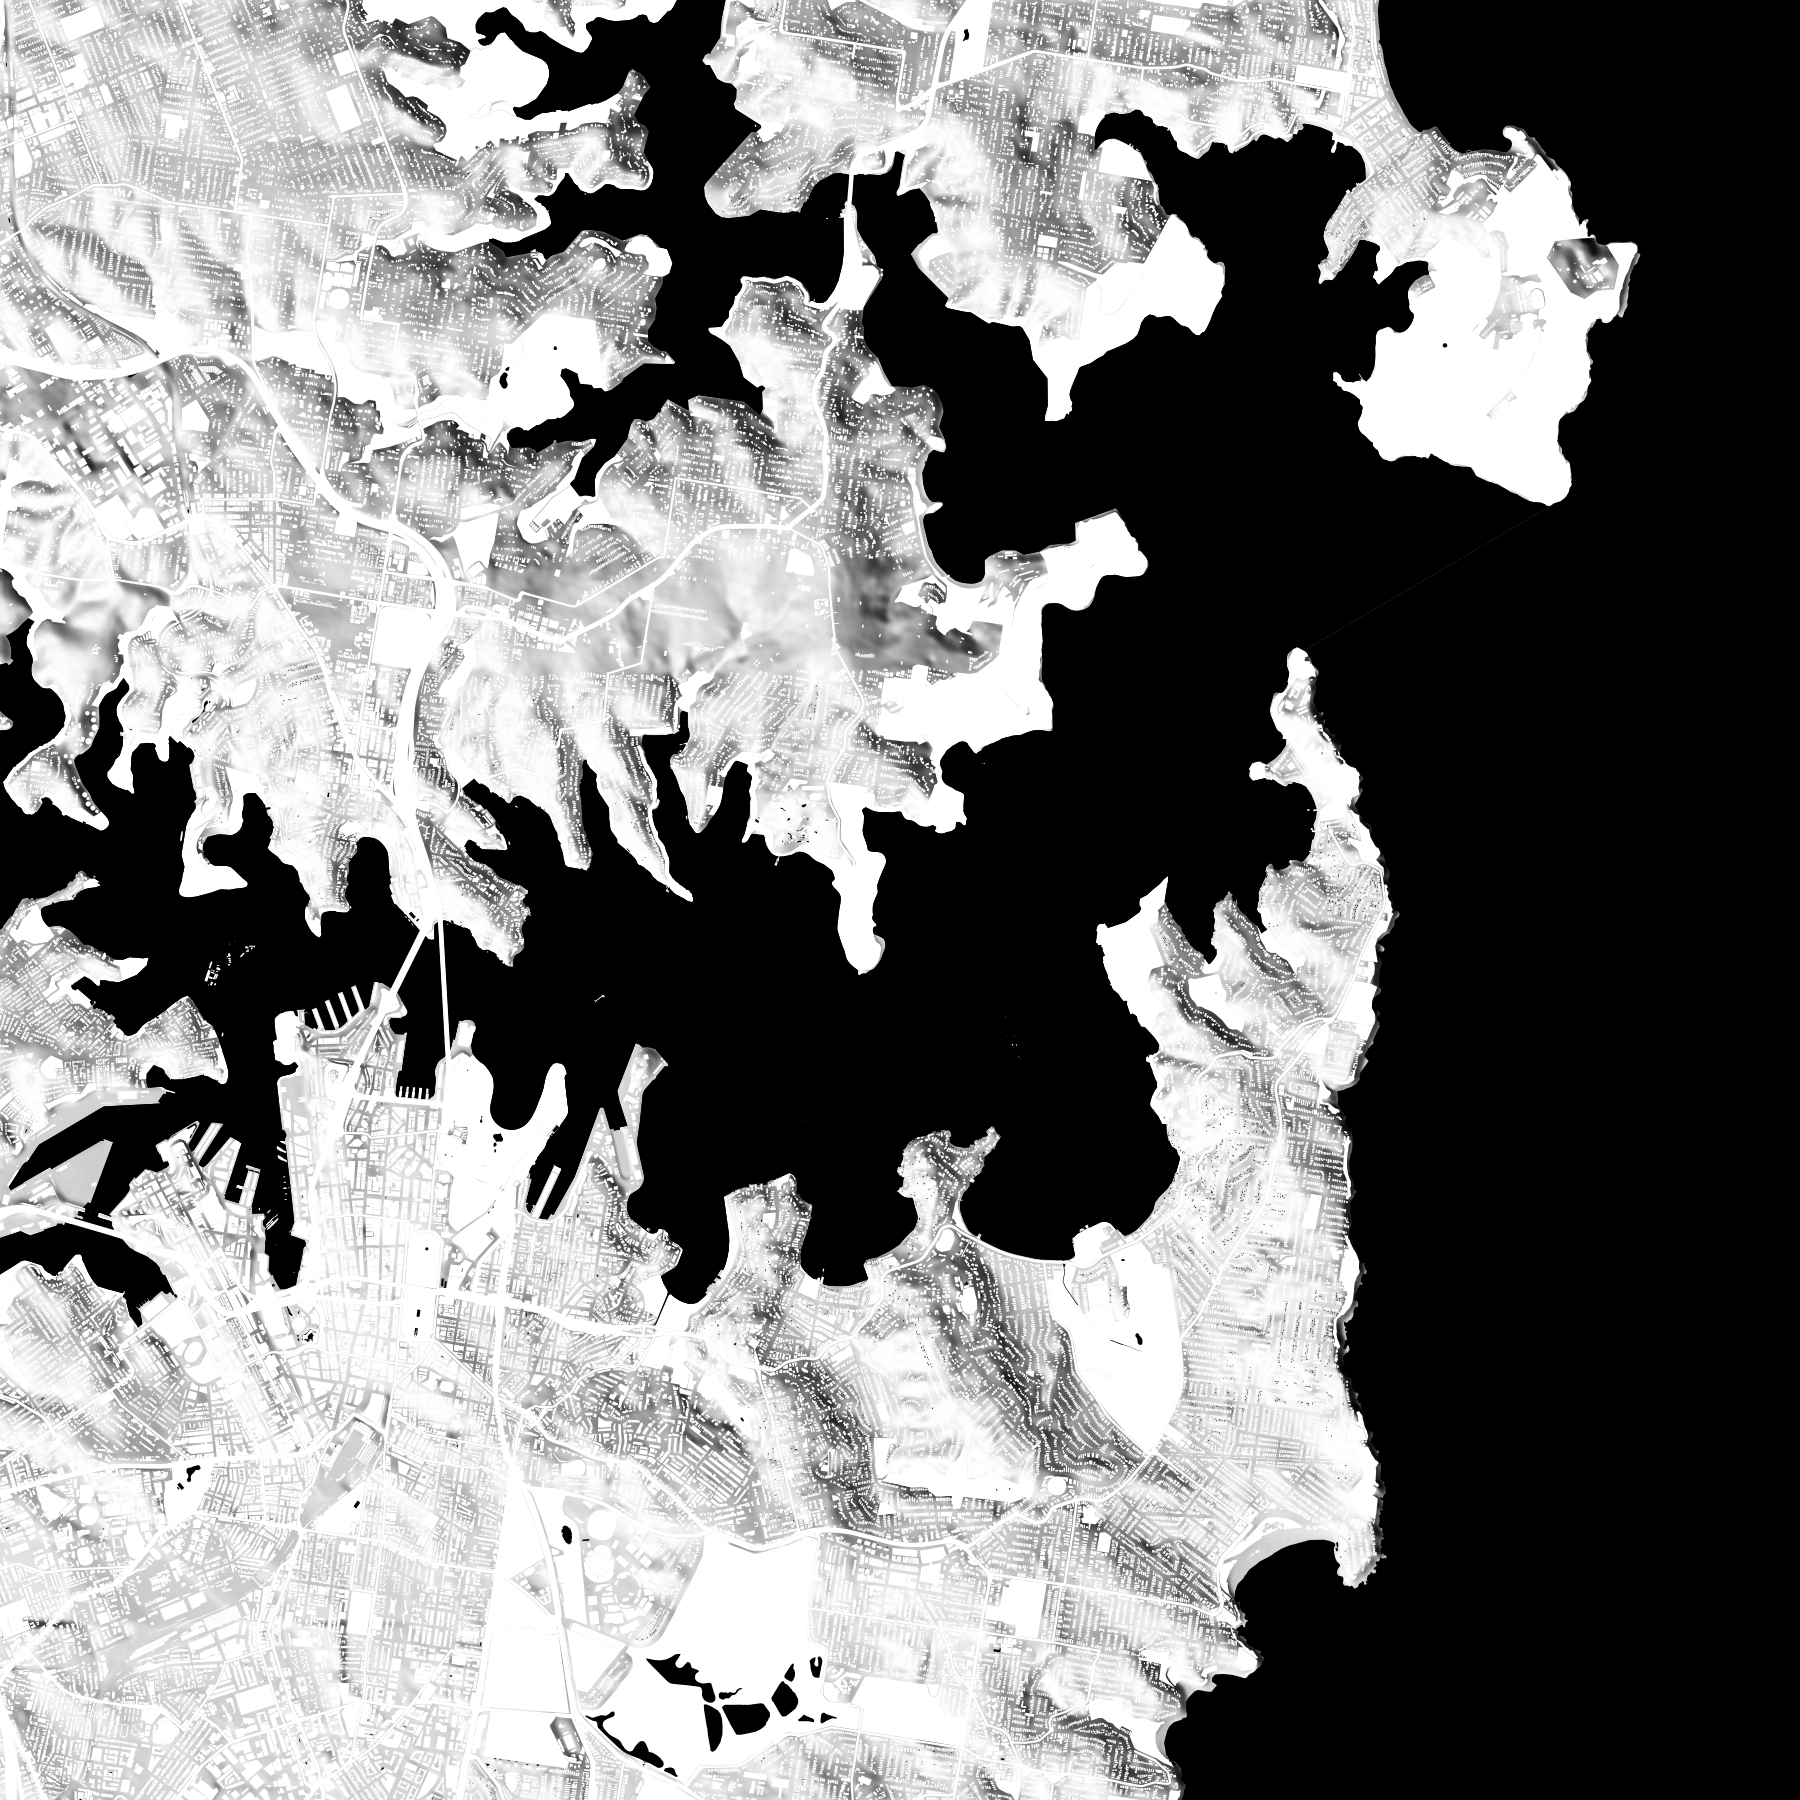
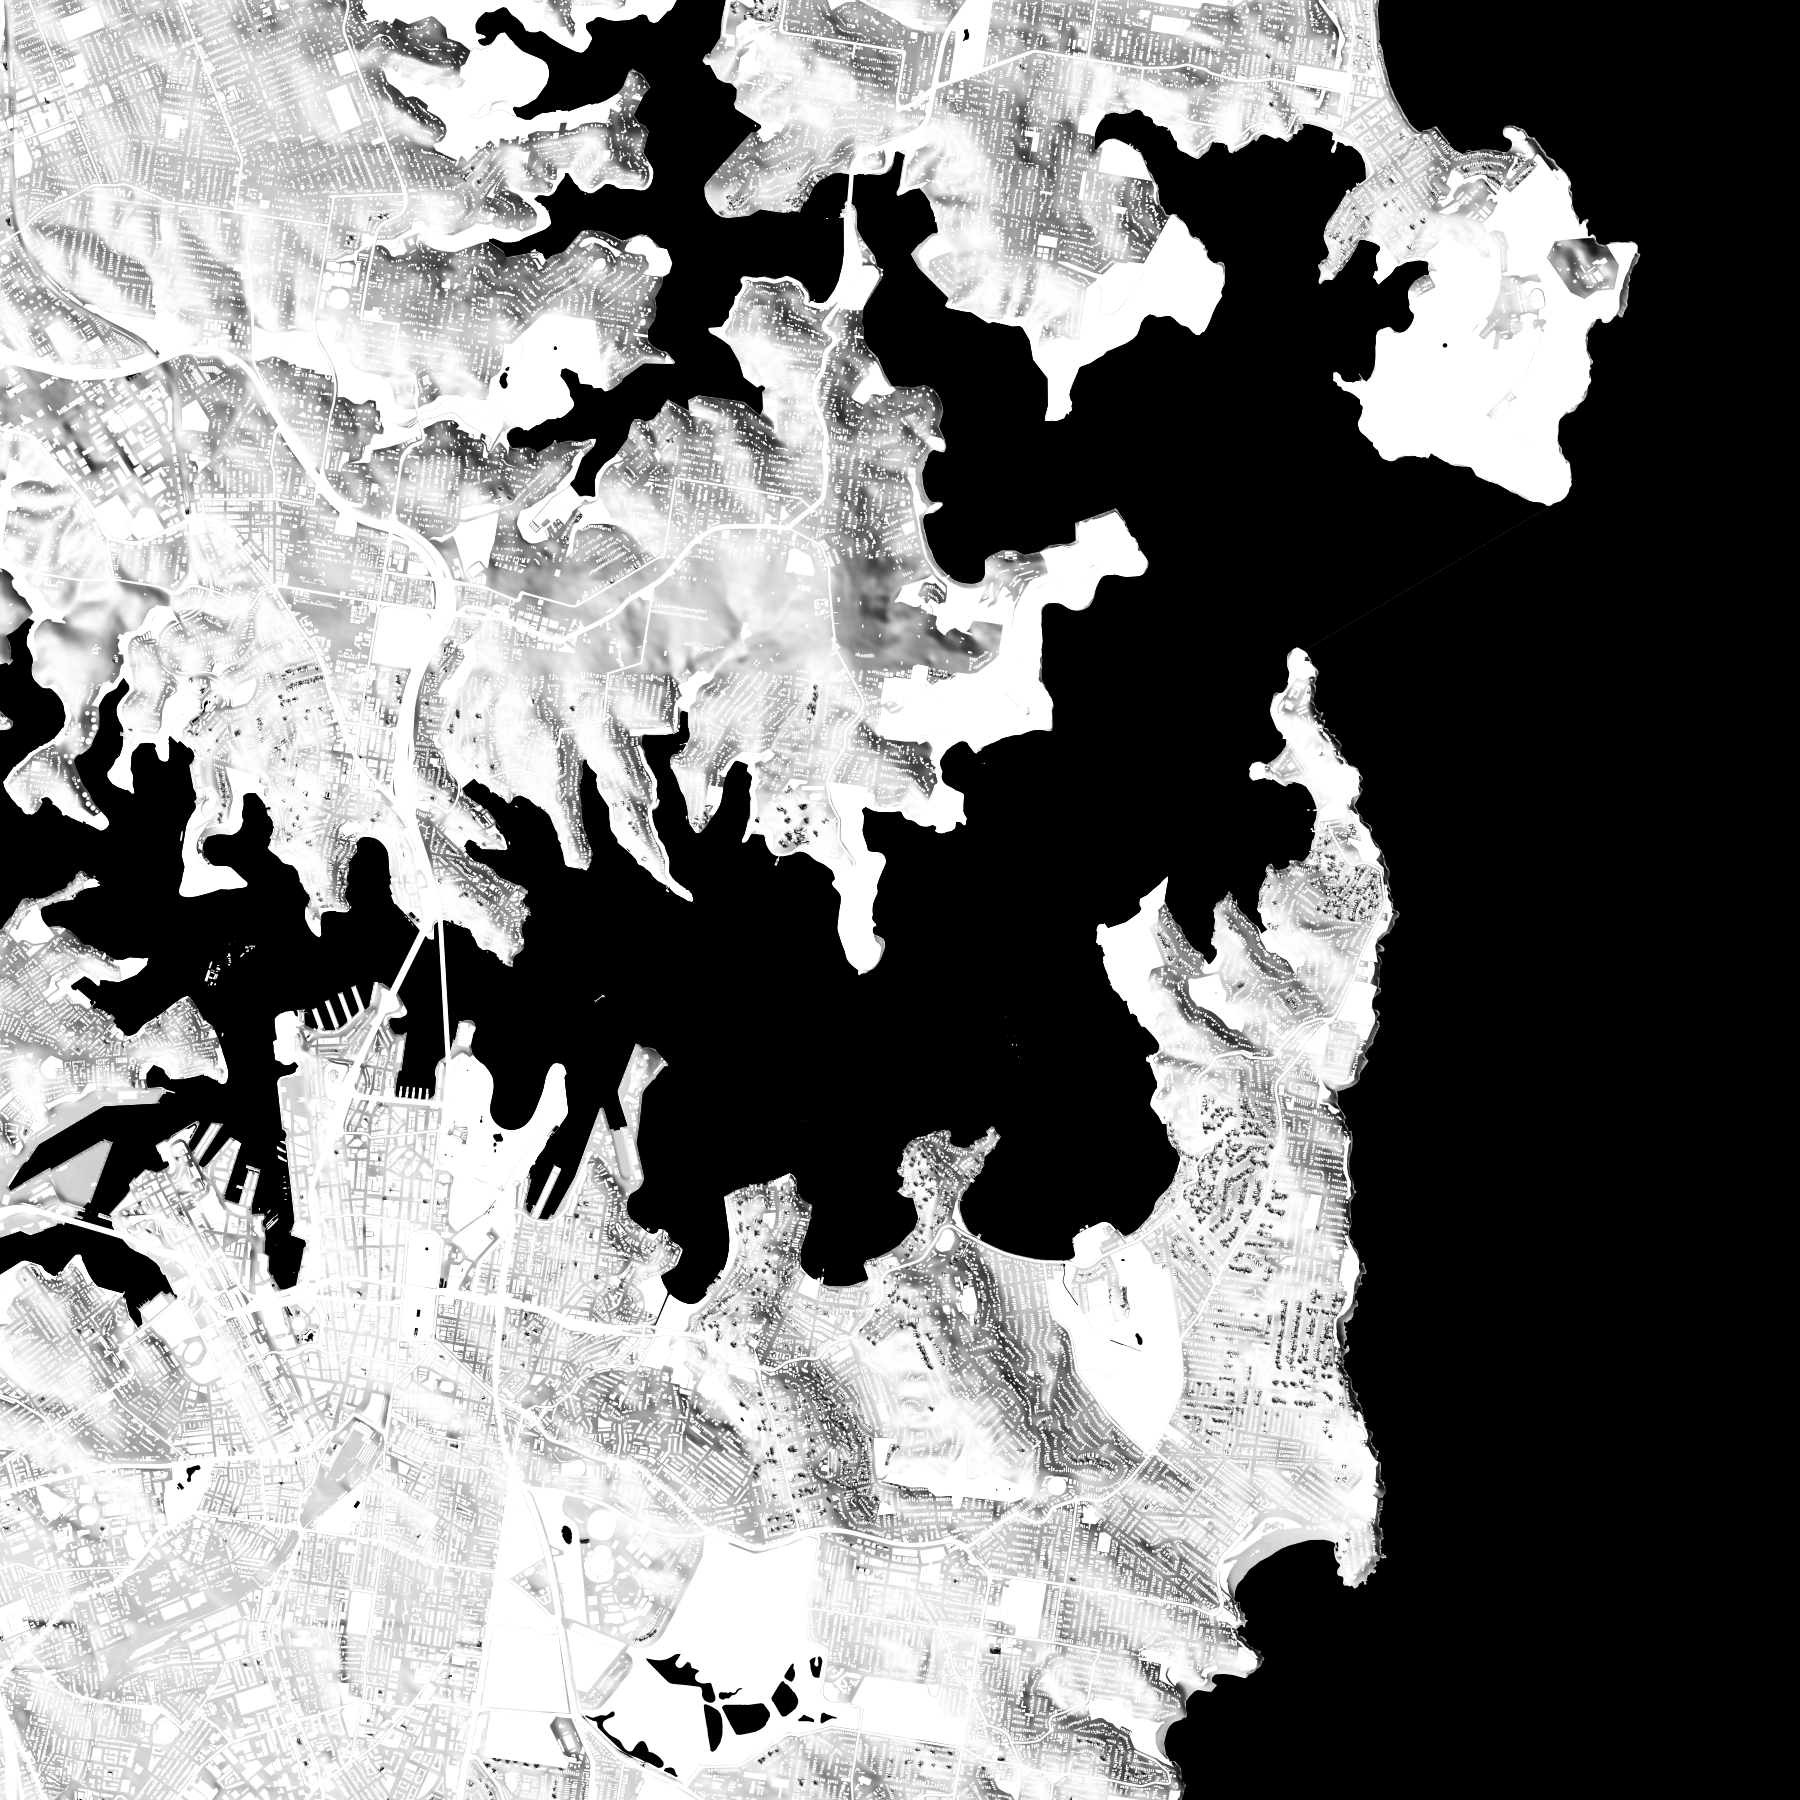
Water currents/waves on a uniform flat-bottomed layer; HTML viewer; fixes
- mesh: water gets a sum-of-sines wave/current top (triangulated with interior
  vertices) over a flat uniform bottom -> uniform layer height with gentle relief
- build: carve a flat seabed under water so white land can't poke through the sea
- make_viewer.py: self-contained Three.js HTML viewer (embedded GLB, decimated
  terrain, double-sided materials to avoid back-face show-through); omits the
  flat white street/tree layers to keep the file small
- config: water.waves block; env: triangle, fast-simplification, lib3mf
- verified the viewer renders solid-black water in a headless browser

diff --git a/make_viewer.py b/make_viewer.py
@@ -1,0 +1,178 @@
+#!/usr/bin/env python3
+"""Build a self-contained interactive 3D HTML viewer from a generated .3mf.
+
+    python make_viewer.py [output/bondi_r0c0.3mf] [config.json]
+
+Loads the meshes, decimates the (smooth) terrain so the file stays reasonable,
+exports a binary GLB, and embeds it as base64 in a single HTML file with a
+Three.js orbit viewer. Colours are assigned per object name in the browser, so
+the viewer always matches the `colors` block in config.json. Self-contained:
+double-click the .html (Three.js loads from a CDN; the model is embedded, so no
+local-file fetch is needed).
+"""
+
+import base64
+import json
+import sys
+from pathlib import Path
+
+import trimesh
+
+TERRAIN_TARGET_FACES = 300_000
+# Flat ground-cover layers that are invisible in the default white-on-white
+# scheme; omitted from the viewer to shrink the file. They remain in the .3mf.
+SKIP_LAYERS = {"streets", "trees"}
+
+
+def _decimate(mesh, target):
+    if len(mesh.faces) <= target:
+        return mesh
+    try:
+        return mesh.simplify_quadric_decimation(face_count=target)
+    except Exception as exc:
+        print(f"  (decimation unavailable: {exc}; keeping full terrain)")
+        return mesh
+
+
+def main():
+    src = Path(sys.argv[1]) if len(sys.argv) > 1 else Path("output/bondi_r0c0.3mf")
+    cfg_path = Path(sys.argv[2]) if len(sys.argv) > 2 else Path("config.json")
+    colors = {k: v for k, v in json.loads(cfg_path.read_text())["colors"].items()
+              if not k.startswith("_")}
+
+    print(f"Loading {src} ...")
+    scene = trimesh.load(src, process=False)
+    geoms = {}
+    for name, m in scene.geometry.items():
+        key = name.lower()
+        if any(s in key for s in SKIP_LAYERS):
+            print(f"  skip {name} ({len(m.faces):,} faces, invisible in viewer)")
+            continue
+        if "terrain" in key and len(m.faces) > TERRAIN_TARGET_FACES:
+            n0 = len(m.faces)
+            m = _decimate(m, TERRAIN_TARGET_FACES)
+            print(f"  terrain {n0:,} -> {len(m.faces):,} faces")
+        geoms[name] = m
+
+    glb = trimesh.Scene(geoms).export(file_type="glb")
+    print(f"GLB: {len(glb)/1e6:.1f} MB")
+
+    html = _TEMPLATE
+    html = html.replace("__TITLE__", src.stem)
+    html = html.replace("__COLORS__", json.dumps(colors))
+    html = html.replace("__GLB_B64__", base64.b64encode(glb).decode())
+    out = src.with_suffix(".html")
+    out.write_text(html)
+    print(f"wrote {out}  ({len(html)/1e6:.1f} MB)")
+
+
+_TEMPLATE = r"""<!DOCTYPE html>
+<html lang="en">
+<head>
+<meta charset="utf-8"/>
+<meta name="viewport" content="width=device-width, initial-scale=1"/>
+<title>__TITLE__ - 3D map</title>
+<style>
+  html,body{margin:0;height:100%;background:#3a3a3a;overflow:hidden;font-family:system-ui,sans-serif}
+  #c{display:block;width:100%;height:100%}
+  #hud{position:fixed;left:14px;bottom:12px;color:#eee;font-size:12px;opacity:.7;
+       text-shadow:0 1px 2px #000;pointer-events:none}
+  #spin{position:fixed;right:14px;top:12px;color:#eee;font-size:12px;background:#0006;
+        border:1px solid #fff3;border-radius:6px;padding:6px 10px;cursor:pointer}
+  #load{position:fixed;inset:0;display:flex;align-items:center;justify-content:center;
+        color:#ddd;font-size:15px;background:#3a3a3a}
+</style>
+</head>
+<body>
+<canvas id="c"></canvas>
+<div id="load">Loading model...</div>
+<div id="spin">auto-rotate: on</div>
+<div id="hud">drag to orbit &middot; scroll to zoom &middot; right-drag to pan</div>
+<script type="importmap">
+{ "imports": {
+  "three": "https://unpkg.com/three@0.160.0/build/three.module.js",
+  "three/addons/": "https://unpkg.com/three@0.160.0/examples/jsm/"
+}}
+</script>
+<script type="module">
+import * as THREE from 'three';
+import { OrbitControls } from 'three/addons/controls/OrbitControls.js';
+import { GLTFLoader } from 'three/addons/loaders/GLTFLoader.js';
+
+const COLORS = __COLORS__;
+const GLB_B64 = "__GLB_B64__";
+
+const renderer = new THREE.WebGLRenderer({canvas: document.getElementById('c'), antialias:true});
+renderer.setPixelRatio(Math.min(devicePixelRatio, 2));
+renderer.setSize(innerWidth, innerHeight);
+
+const scene = new THREE.Scene();
+scene.background = new THREE.Color(0x3a3a3a);
+
+const camera = new THREE.PerspectiveCamera(45, innerWidth/innerHeight, 0.1, 100000);
+const controls = new OrbitControls(camera, renderer.domElement);
+controls.enableDamping = true;
+controls.autoRotate = true;
+controls.autoRotateSpeed = 0.6;
+
+scene.add(new THREE.HemisphereLight(0xffffff, 0x444444, 0.55));
+const key = new THREE.DirectionalLight(0xffffff, 2.4);
+key.position.set(-1, 1.4, 0.8);              // NW, high: classic hillshade angle
+scene.add(key);
+const fill = new THREE.DirectionalLight(0xffffff, 0.5);
+fill.position.set(1, 0.6, -0.8);
+scene.add(fill);
+
+function colorFor(name){
+  name = (name||'').toLowerCase();
+  for (const k in COLORS) if (name.includes(k)) return new THREE.Color(COLORS[k]);
+  return new THREE.Color(0xcccccc);
+}
+
+const buf = Uint8Array.from(atob(GLB_B64), c => c.charCodeAt(0));
+new GLTFLoader().parse(buf.buffer, '', (gltf) => {
+  const model = gltf.scene;
+  model.traverse(o => {
+    if (!o.isMesh) return;
+    o.geometry.computeVertexNormals();
+    o.material = new THREE.MeshStandardMaterial({
+      color: colorFor(o.name), roughness: 0.9, metalness: 0.0,
+      side: THREE.DoubleSide,   // meshes aren't consistently wound; don't cull
+      flatShading: o.name.toLowerCase().includes('terrain')
+    });
+  });
+  model.rotation.x = -Math.PI/2;             // model is Z-up; Three.js is Y-up
+  model.updateMatrixWorld(true);
+
+  const box = new THREE.Box3().setFromObject(model);
+  const center = box.getCenter(new THREE.Vector3());
+  const size = box.getSize(new THREE.Vector3());
+  model.position.sub(center);                // recenter at origin
+  scene.add(model);
+
+  const span = Math.max(size.x, size.z);
+  camera.position.set(span*0.05, span*0.75, span*0.95);
+  camera.near = span/1000; camera.far = span*20; camera.updateProjectionMatrix();
+  controls.target.set(0,0,0); controls.update();
+  document.getElementById('load').remove();
+}, (err) => {
+  document.getElementById('load').textContent = 'Failed to load model: ' + err;
+});
+
+const spin = document.getElementById('spin');
+spin.onclick = () => { controls.autoRotate = !controls.autoRotate;
+  spin.textContent = 'auto-rotate: ' + (controls.autoRotate ? 'on' : 'off'); };
+
+addEventListener('resize', () => {
+  camera.aspect = innerWidth/innerHeight; camera.updateProjectionMatrix();
+  renderer.setSize(innerWidth, innerHeight);
+});
+(function loop(){ requestAnimationFrame(loop); controls.update(); renderer.render(scene, camera); })();
+</script>
+</body>
+</html>
+"""
+
+
+if __name__ == "__main__":
+    main()

diff --git a/bondimap/mesh.py b/bondimap/mesh.py
@@ -8,6 +8,8 @@ trimesh, and each trimesh becomes one coloured object in the .3mf.
 
 from __future__ import annotations
 
+import math
+
 import mapbox_earcut as earcut
 import numpy as np
 import trimesh
@@ -199,13 +201,76 @@ def _drape(poly, sampler, offset, thickness, flat_z=None):
     return _prism(poly, z_bottom=z_bot, z_top=z_top)
 
 
+# Superimposed sine waves -> a calm sea with swells and a cross-current.
+# (wavelength_mm, relative_amplitude, direction_rad, phase)
+_WAVE_COMPONENTS = [
+    (175.0, 1.00, math.radians(25),  0.0),   # long swell / main current
+    (135.0, 0.70, math.radians(50),  1.7),   # second current direction
+    (95.0,  0.60, math.radians(115), 2.1),
+    (60.0,  0.50, math.radians(70),  1.3),
+    (38.0,  0.35, math.radians(20),  0.7),
+    (24.0,  0.22, math.radians(160), 3.0),   # short chop
+]
+
+
+def _waved_slab(poly, z_bottom, wave_fn, max_area):
+    """Slab with a flat bottom and a wave-modulated top over a polygon.
+
+    Triangulated with the `triangle` engine so the surface carries interior
+    vertices (earcut only meshes the outline, which can't show waves).
+    """
+    if poly.is_empty or poly.area <= 0 or poly.geom_type != "Polygon":
+        return None
+    try:
+        v2d, faces = trimesh.creation.triangulate_polygon(
+            poly, triangle_args=f"pa{max_area:.3f}", engine="triangle")
+    except Exception:
+        return None
+    if faces is None or len(faces) == 0:
+        return None
+    faces = np.asarray(faces, dtype=np.int64)
+    n = len(v2d)
+    verts = np.vstack([np.column_stack([v2d, wave_fn(v2d)]),
+                       np.column_stack([v2d, np.full(n, z_bottom)])])
+    out = [faces, faces[:, ::-1] + n]                  # top up, bottom reversed
+    edges = np.sort(faces[:, [0, 1, 1, 2, 2, 0]].reshape(-1, 2), axis=1)
+    uniq, cnt = np.unique(edges, axis=0, return_counts=True)
+    a, b = uniq[cnt == 1].T                             # boundary edges -> walls
+    out.append(np.column_stack([a, b, b + n]))
+    out.append(np.column_stack([a, b + n, a + n]))
+    return verts, np.vstack(out)
+
+
 def water_tile(cfg, sampler, polys, color):
-    # `level_mm` is the absolute model-z of the (flat) water surface, e.g. 2.4 mm
-    # sits 0.4 mm above a 2.0 mm datum base so the sea reads as calm and proud.
+    """Uniform flat-bottomed black water layer, optionally with a wave top.
+
+    The bottom is always one flat plane at `level - thickness` (uniform layer
+    height); only the top is modulated, so even with waves the water reads as a
+    single calm sheet rather than varying in height per body.
+    """
     wcfg = cfg["features"]["water"]
     level = float(wcfg["level_mm"])
     thick = float(wcfg["thickness_mm"])
-    pieces = [_drape(p, sampler, 0.0, thick, flat_z=level) for p in polys]
+    waves = wcfg.get("waves", {})
+
+    if not waves.get("enabled"):
+        pieces = [_drape(p, sampler, 0.0, thick, flat_z=level) for p in polys]
+        return _combine(pieces, color)
+
+    amp = float(waves["amplitude_mm"])
+    max_area = float(waves.get("mesh_max_area_mm2", 4.0))
+    norm = amp / sum(a for _, a, _, _ in _WAVE_COMPONENTS)
+
+    def wave_fn(v2d):
+        h = np.zeros(len(v2d))
+        for wl, a, ang, ph in _WAVE_COMPONENTS:
+            k = 2.0 * math.pi / wl
+            h += a * np.sin(k * (v2d[:, 0] * math.cos(ang)
+                                 + v2d[:, 1] * math.sin(ang)) + ph)
+        return level + h * norm
+
+    z_bottom = level - thick
+    pieces = [_waved_slab(p, z_bottom, wave_fn, max_area) for p in polys]
     return _combine(pieces, color)
 
 

diff --git a/bondimap/build.py b/bondimap/build.py
@@ -5,6 +5,7 @@ from __future__ import annotations
 import time
 from pathlib import Path
 
+import numpy as np
 from shapely import STRtree
 from shapely.geometry import box
 
@@ -33,6 +34,33 @@ def _poly_parts(g):
     return []
 
 
+def _carve_seabed(z_mm, water_polys, size, seabed_z):
+    """Lower terrain to a flat seabed wherever there is water (model mm).
+
+    Rasterises the water polygons onto the height grid and clamps those cells
+    down to the base level, so white land can't poke up through the black sea
+    near coastlines and the water slab rests on a clean flat bottom.
+    """
+    if not water_polys:
+        return z_mm
+    from PIL import Image, ImageDraw
+
+    n = z_mm.shape[0]
+    s = (n - 1) / size
+    img = Image.new("L", (n, n), 0)
+    draw = ImageDraw.Draw(img)
+    for poly in water_polys:
+        if poly.geom_type != "Polygon" or poly.is_empty:
+            continue
+        draw.polygon([(x * s, y * s) for x, y in poly.exterior.coords], fill=255)
+        for ring in poly.interiors:
+            draw.polygon([(x * s, y * s) for x, y in ring.coords], fill=0)
+    mask = np.asarray(img) > 127
+    z_mm[mask] = np.minimum(z_mm[mask], seabed_z)
+    print(f"Seabed    : flattened {int(mask.sum()):,} grid cells under water")
+    return z_mm
+
+
 def _clip(tree, geoms, attrs, tilebox):
     """Clip a category's geoms to the tile box using a prebuilt STRtree."""
     if not geoms:
@@ -53,13 +81,17 @@ def run(config_path):
 
     # --- terrain ---
     z_mm = elevation.build_terrain(cfg)
-    sampler = elevation.TerrainSampler(cfg, z_mm)
 
     # --- vector layers (full area, model-mm coords) ---
     buildings = overture.fetch_buildings(cfg)
     roads = overture.fetch_roads(cfg)
     water = overture.fetch_water(cfg)
     green = overture.fetch_green(cfg)
+
+    # Flatten a seabed under the water before sampling terrain heights.
+    z_mm = _carve_seabed(z_mm, water, cfg.size_mm,
+                         float(cfg["model"]["base_thickness_mm"]))
+    sampler = elevation.TerrainSampler(cfg, z_mm)
     road_polys = mesh.roads_to_polygons(cfg, roads)
 
     b_geoms = [g for g, _ in buildings]

diff --git a/README.md b/README.md
@@ -37,6 +37,17 @@ conda activate bondimap
 
 A tiny, fast smoke-test config is included: `python run.py test_config.json`.
 
+### Interactive 3D viewer (HTML)
+
+```bash
+python make_viewer.py output/bondi_r0c0.3mf config.json
+```
+
+Writes a self-contained `output/bondi_r0c0.html` — double-click to orbit the
+model in any browser (Three.js loads from a CDN; the geometry is embedded as a
+base64 GLB, so no server or local-file fetch is needed). The terrain is
+decimated to keep the file reasonable; colours follow `config.json`.
+
 ## What it produces
 
 - **Size**: `model.size_mm` across (default 500 mm), split into